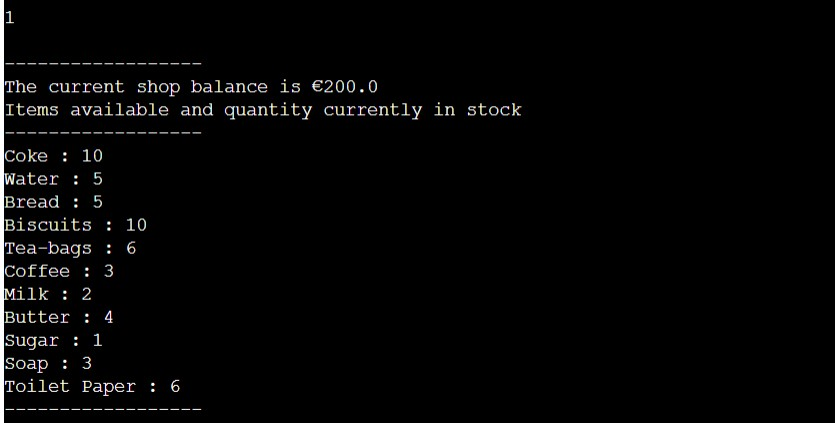
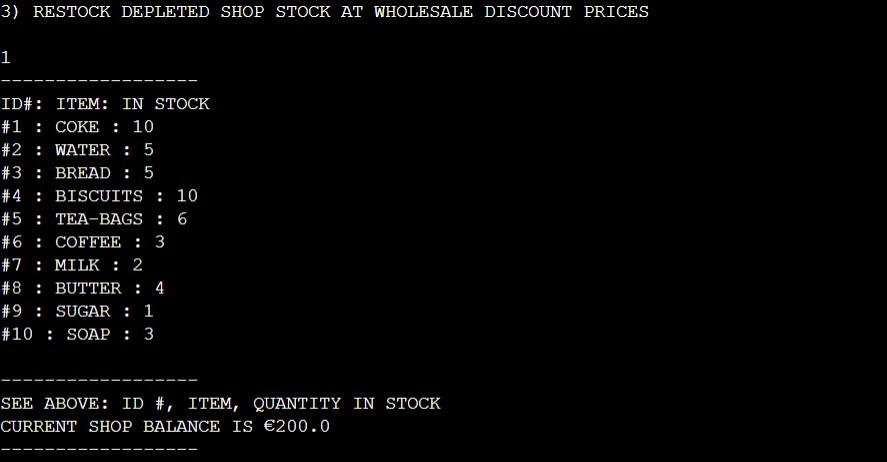
update readme.md file

Changed region(s): [[0.0, 0.0, 0.7473, 1.0]]

diff --git a/README.md b/README.md
@@ -1,5 +1,5 @@
 <h1 align="center">Corner Store</h1>
-<p>A very small shop on the corner of an estate where a person can get basic items when needed. The shop window opens to accept customer orders and it is also possible to phone ahead and give your order so it is ready for collection. When the shop stock is running low the shopkeeper can restock the shop at discounted wholesale prices.
+<p>As everything goes online, even the local corner shop at some point will stop accepting cash. The idea behind this app is that as the customer enters the shop they will enter their details upon which their account balance will be displayed. The customer will then top up their account credit and order the items and quantity that they require. After each purchase the customer credit reduces and the shop balance increase as a result or the purchased items. When the shop stock is running low the shopkeeper can restock the shop at discounted wholesale prices. The shop functions the same as any other corner store it just no longer accepts cash.
 
 Created as part of the Code Institue Portfolio 3: Python Essentials Milestone Project 
 
@@ -21,44 +21,51 @@ Live link - [Corner Store](https://corner-store-app.herokuapp.com/)
 ![Shop open](/images/open-shop.jpg)
 
 ### Option-1 Current Shop Stock
-* Selecting option 1 returns the current shop balance a list of the items available and quantities in stock in the shop.
+* Selecting option 1 returns the shop stock including the product ID#, product name and the quantity in stock. These values are taken from the current_stock google spreadsheet.
+![Shop open](/images/gspread_current_stock.jpg)
+* The app displays the current shop balance a list of the items available and quantities in stock in the shop. Price is not included.
 ![Shop open](/images/option-1-full-stock.jpg)
 
 ***
 
 ### Option-2 Enter Customer Order
-* Selecting option 2 prompts the customer to enter their name, amount of euros they hold and the items and quantity of items they require.
+* Selecting option 2 prompts the customer to enter their name and the amount they want to top up their account credit by. The shop stock list is also returned to help with the users selection.
+![Shop open](/images/option-2-enter-cust-details.jpg)
+* The customer then enters the items required and the quantity of each item required. Items are selected by entering the ID#.
 ![Shop open](/images/option-2-enter-order.jpg)
-* Programme then returns this order and the parts of the order that could be executed.
+* The app then returns the customer order and the item and quantities that have been purchased.
 ![Shop open](/images/option-2-execute-order.jpg)
-* If the shop is unable to process any part of the customer order then this is explained to the customer.
+* The current_stock and shop_balance google spreadsheets are also updated so that the database remains up to date.
+![Shop open](/images/update_current_stock.jpg)
+* If the shop is unable to process the customer order as a item that is not listed is selected then this is explained to the customer.
 ![Shop open](/images/unable-to-execute.jpg)
+* If the customer order is invalid due the customer is notified and the shop returns to the shop menu.
+![Shop open](/images/invalid-order-entry.jpg)
 ***
 
-### Option-3 Execute Existing Order
-* Selecting option 3 executes an order that is to be ready for a customer to collect. The shop balance and stock are updated accordingly.
-![Shop open](/images/option-3-execute-existing-order.jpg)
-***
-
-### Option-4 Restock Shop
-* Selecting option 4 restocks the shop. The shop inventory levels are returned to the opening amounts however the shop must pay to restock the shop albeit at the lower wholesale prices.
-![Shop open](/images/option-4-restock-shop-at-wholesale-price.jpg)
+### Option-3 Restock Shop
+* Selecting option 3 restocks the shop using the default stock inventory values from the restock_shop google spreadsheet.
+![Shop open](/images/gspread_restock_shop.jpg)
+* The shop inventory levels are returned to the opening amounts however the shop must pay to restock the shop at the lower wholesale prices.
+![Shop open](/images/option-3-restock-shop.jpg)
+* The current_stock and shop_balance google spreadsheets are updated so that the database remains up to date.
 ***
 
 ## Testing
 * Testing to confirm shop functions as intended. This included:
-    * If option 1-4 is not selected then the shop should close as it does not provide that service.
+    * If option 1-3 is not selected then the shop should tell customer it does not provide that service and return to the shop menu.
     * Shop requires customer to enter a number for euros that they hold.
+    * When an item is purchased the stock quantity reduces and the customer credit and the shop balance are updated to reflect this purchase. The stock quantities also reduce.
+    * The google spreadsheets are also sent this information so that the database remains up to date
     * If a customer requests items that the shop does not stock then the customer is reminded that only the items in stock are available.
-    * When an item is purchased the stock quantity reduces and the customer cash and also the shop balance are updated to reflect this purchase.
-    * When shop stock is depleted the shopkeeper can restock the shop whereby the shop balance is updated to reflect this albeit at the lower wholesale prices.S
+    * When shop stock is depleted the shopkeeper can restock the shop whereby the shop balance is updated to reflect this albeit at the lower wholesale prices.
+    * The google spreadsheets are also sent this information so that the database remains up to date
 ***
 
 ## Validator Testing
-* Python code - all warnings have been resolved except for two that appear multiple times when passing the run.py file content through the [pep8 online validator](http://pep8online.com/)
+* Python code - all warnings have been resolved except for one that appears multiple times when passing the run.py file content through the [pep8 online validator](http://pep8online.com/)
     * E701: multiple statements on one line(colon)
-    * W291: trailing whitespace
-* Neither of the above errors impact running of the corner store python app.
+* The above error does impact the running of the corner store python app.
 
 ## Deployment
 * The corner store python app has been deployed to [Heroku](https://www.heroku.com/) - a cloud platform service for developers to build and run applications: 
